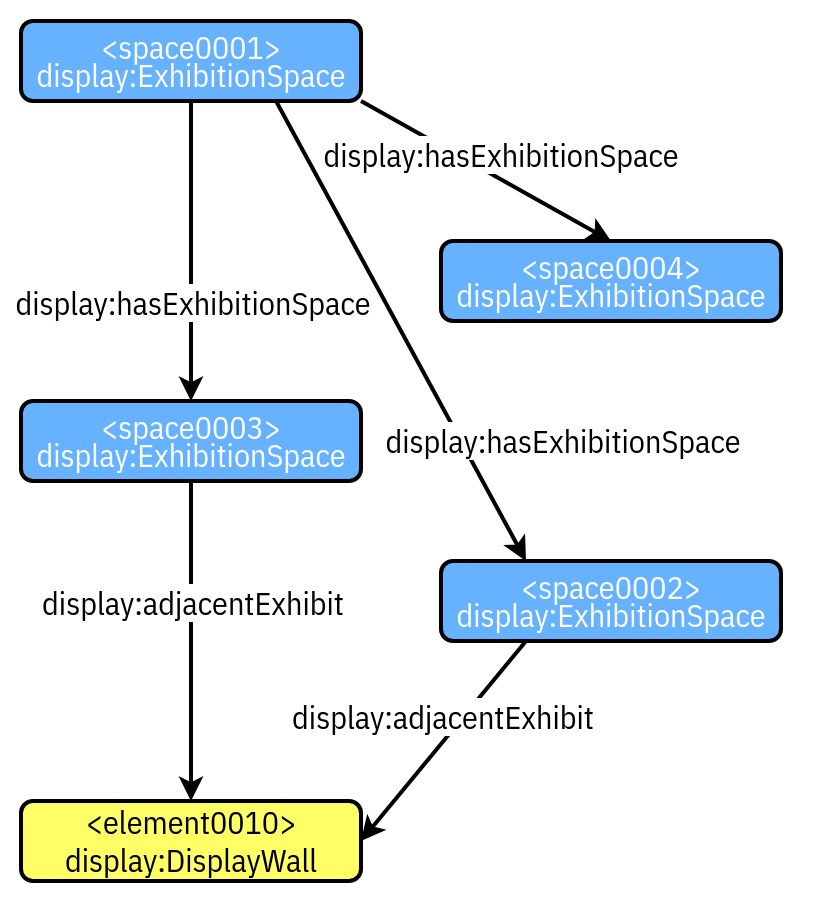
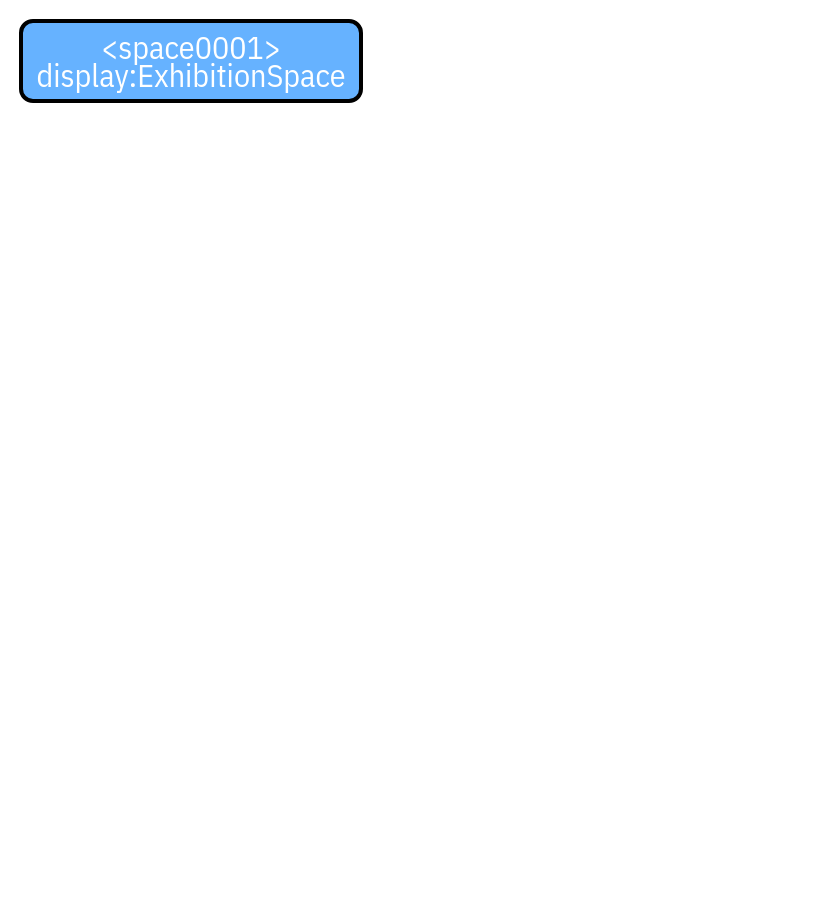
diapos fragmentées

diff --git a/communications/DH24/index.md b/communications/DH24/index.md
@@ -181,6 +181,12 @@ The Building Topology Ontology (BOT)
 
 ## Handling Tolopogical Relationships
 
+![Tolopogical Relationships](./img/ontology-03-1-bot-display.png)
+
+===vvvvvv===
+
+## Handling Tolopogical Relationships
+
 ![Tolopogical Relationships](./img/ontology-03-bot-display.png)
 
 ===vvvvvv===
@@ -333,6 +339,8 @@ The `bot:` namespace: Describing spaces
 
 ## Exhibition Space Configuration
 
+`bot:intersectsZone`: Intersecting Zones
+
 <div style="display: flex">
   <div class="flex-1">
     <figure>
@@ -350,6 +358,8 @@ The `bot:` namespace: Describing spaces
 ===vvvvvv===
 
 ## Exhibition Space Configuration
+
+`bot:intersectsZone`: Intersecting Zones
 
 <div style="display: flex">
   <div class="flex-1">
@@ -369,10 +379,12 @@ The `bot:` namespace: Describing spaces
 
 ## Exhibition Space Configuration
 
+`display:hasExhibitionSpace`: Space contains space
+
 <div style="display: flex">
   <div class="flex-1">
     <figure>
-      <img data-src="./img/plan-inventaire.png" alt="Détail du plan de l’exposition Feux pâles au CAPC, galerie Foy.">
+      <img data-src="./img/plan-inventaire-01.png" alt="Détail du plan de l’exposition Feux pâles au CAPC, galerie Foy.">
       <figcaption>
         Détail du plan de l’exposition Feux pâles au CAPC, galerie Foy. ©&#0160;Zoë&#0160;Renaudie.
       </figcaption>
@@ -383,9 +395,45 @@ The `bot:` namespace: Describing spaces
   </div>
 </div>
 
-/** Notes **/
+===vvvvvv===
 
-- So where are now going to the next space!
+## Exhibition Space Configuration
+
+`display:hasExhibitionSpace`: Space contains space
+
+<div style="display: flex">
+  <div class="flex-1">
+    <figure>
+      <img data-src="./img/plan-inventaire-02.png" alt="Détail du plan de l’exposition Feux pâles au CAPC, galerie Foy.">
+      <figcaption>
+        Détail du plan de l’exposition Feux pâles au CAPC, galerie Foy. ©&#0160;Zoë&#0160;Renaudie.
+      </figcaption>
+    </figure>
+  </div>
+  <div class="flex-1">
+    <img src="./img/use-case-graph-08-2.png">
+  </div>
+</div>
+
+===vvvvvv===
+
+## Exhibition Space Configuration
+
+`display:adjacentExhibit:`: Spaces share element
+
+<div style="display: flex">
+  <div class="flex-1">
+    <figure>
+      <img data-src="./img/plan-inventaire-03.png" alt="Détail du plan de l’exposition Feux pâles au CAPC, galerie Foy.">
+      <figcaption>
+        Détail du plan de l’exposition Feux pâles au CAPC, galerie Foy. ©&#0160;Zoë&#0160;Renaudie.
+      </figcaption>
+    </figure>
+  </div>
+  <div class="flex-1">
+    <img src="./img/use-case-graph-08-3.png">
+  </div>
+</div>
 
 ===vvvvvv===
 
@@ -401,6 +449,8 @@ The `bot:` namespace: Describing spaces
 ===vvvvvv===
 
 ## Intersecting Exhibits
+
+`display:intersectingExhibit`: Exhibit spans spaces
 
 <div style="display: flex">
   <div class="flex-1">
@@ -465,7 +515,29 @@ The `bot:` namespace: Describing spaces
 
 `display:Display`: aggregate of exhibits
 
-![Instantiation syntax](./img/use-case-graph-11.png)
+![Instantiation syntax](./img/use-case-graph-11-1.png)
+
+===vvvvvv===
+
+## Topological Relationship Between Exhibits
+
+`display:Display`: aggregate of exhibits
+
+![Instantiation syntax](./img/use-case-graph-11-2.png)
+
+===vvvvvv===
+
+## Topological Relationship Between Exhibits
+
+`display:Display`: aggregate of exhibits
+
+![Instantiation syntax](./img/use-case-graph-11-3.png)
+
+===vvvvvv===
+
+## Reasoning: Enhance the graph with the `OWL` semantics
+
+![Reasoning](./img/use-case-graph-12-1.png)
 
 ===vvvvvv===
 
